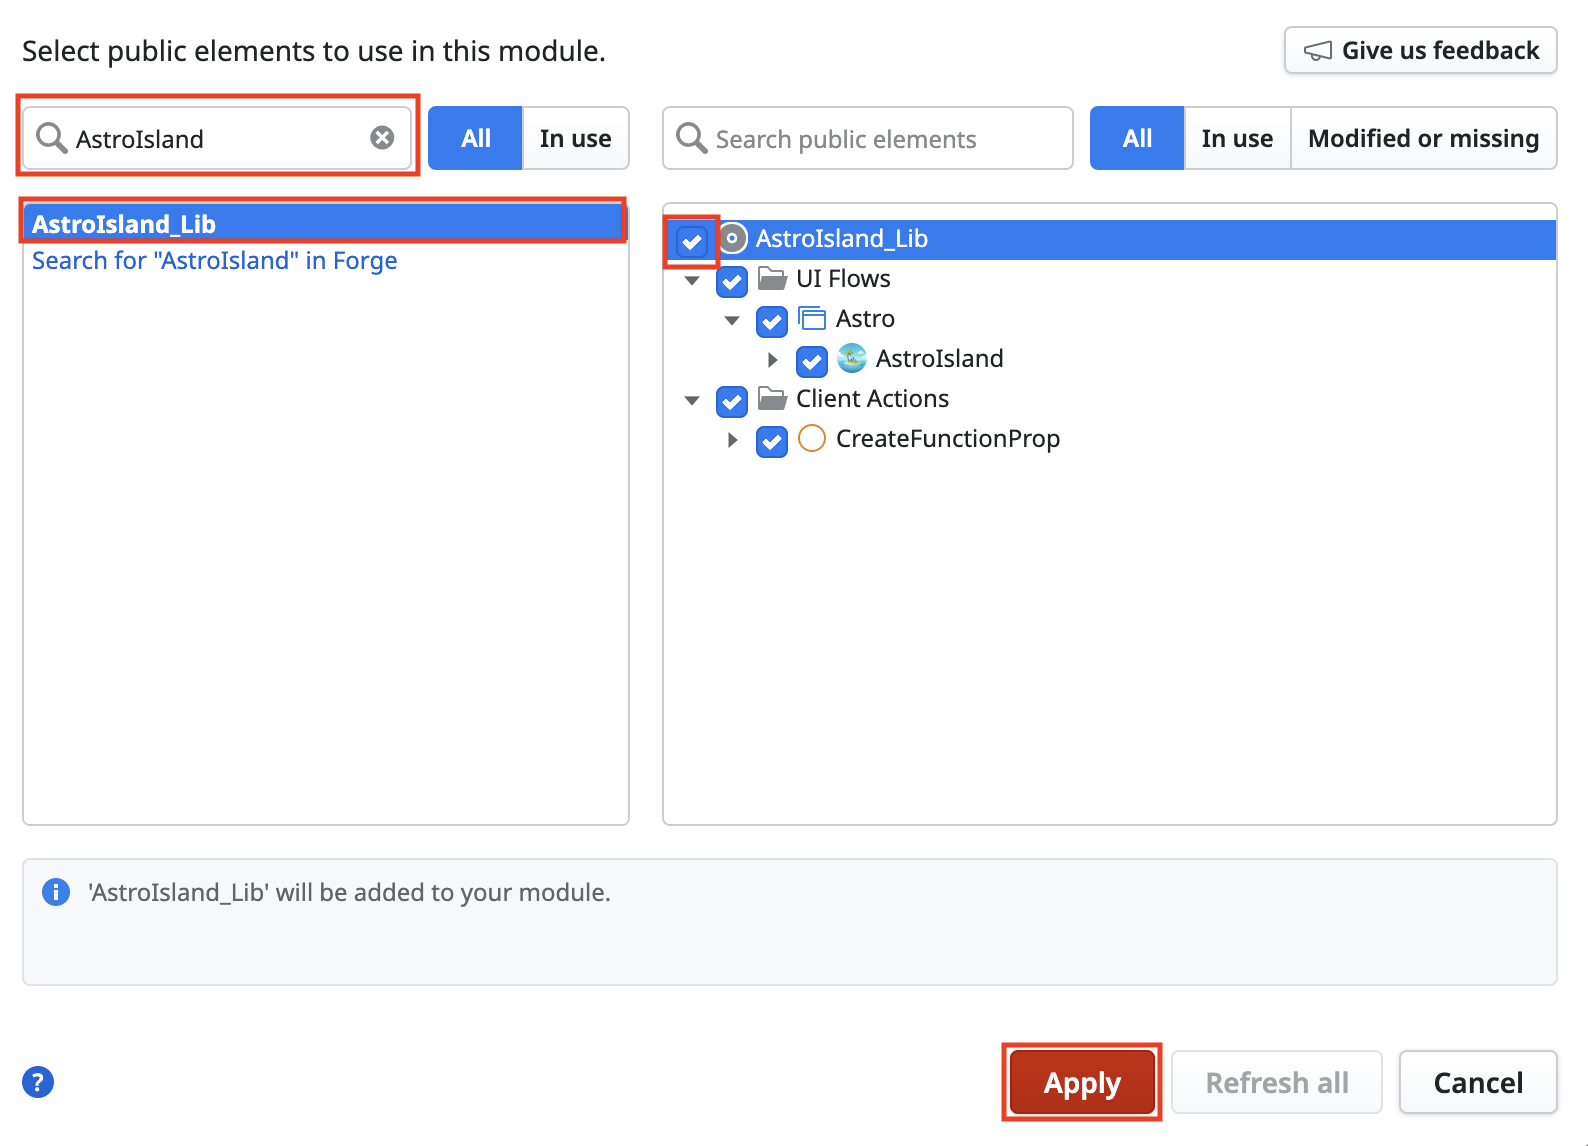
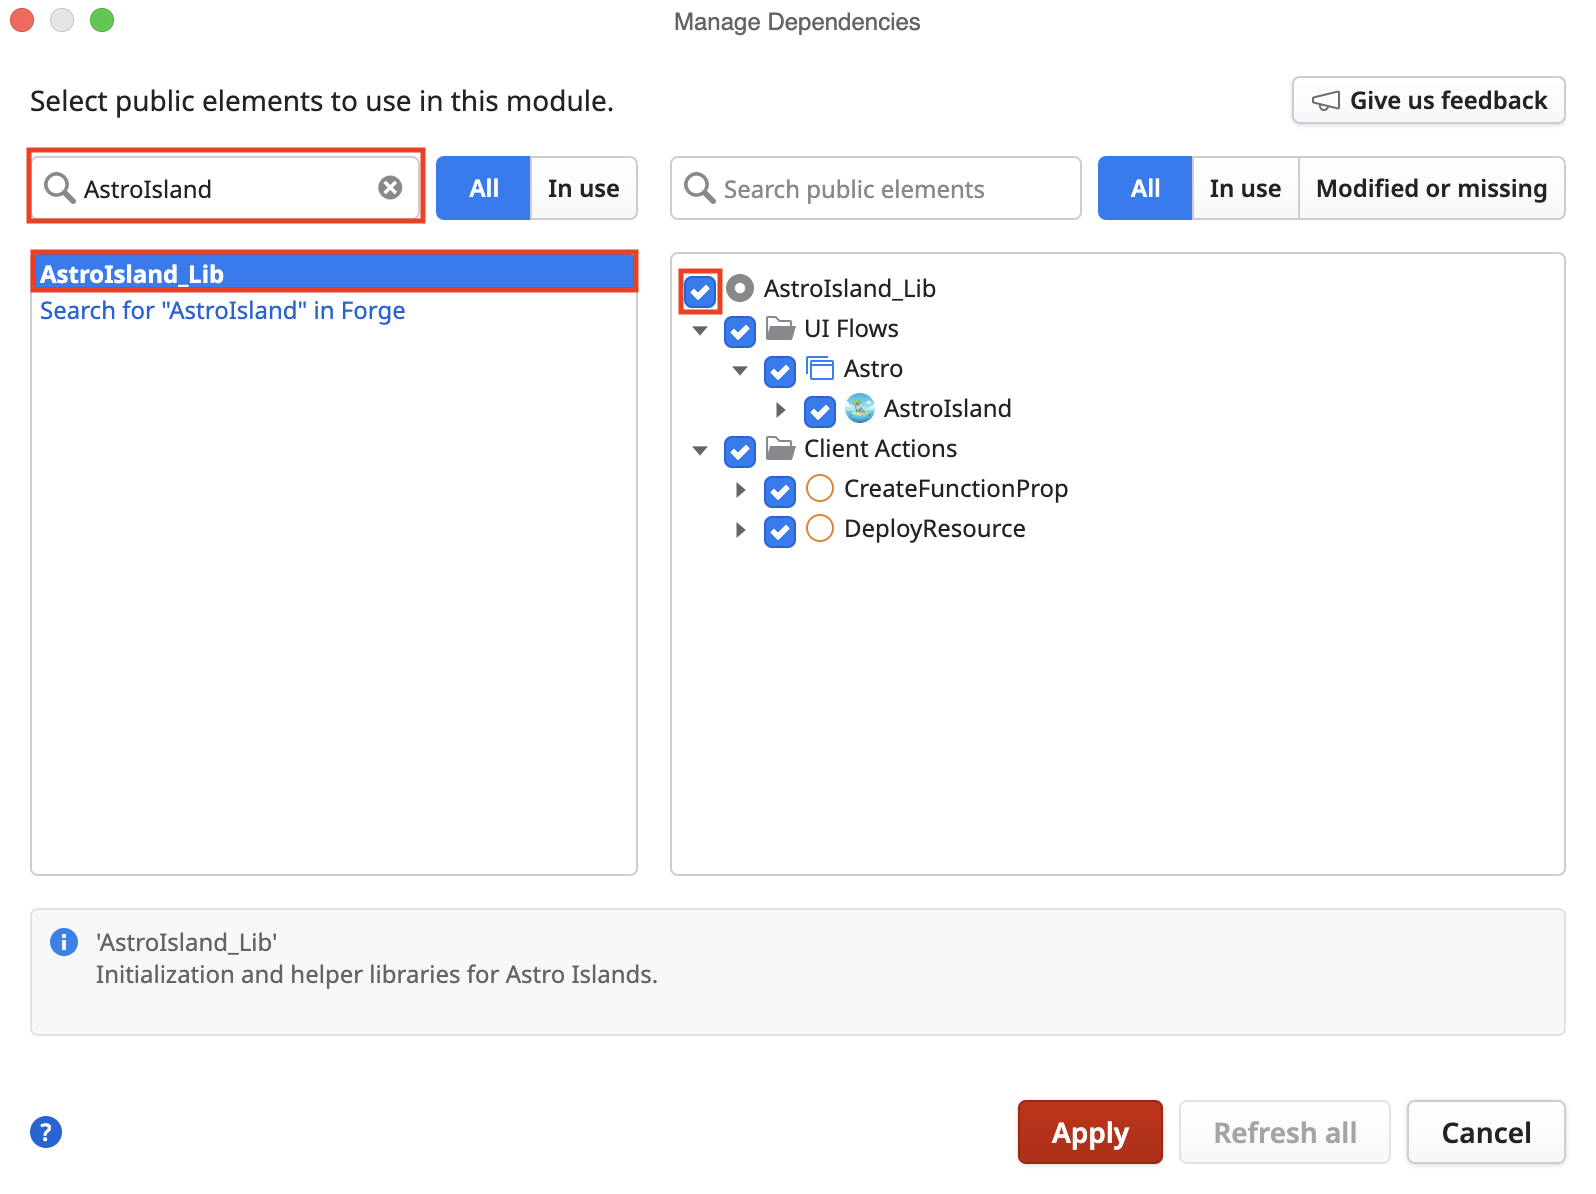
Update docs 011 js file loading (#37)
* Changing manual chunks output to remove .js in filename

* Updating docs for O11 resource deployment

* Adding scheduled run for tests

diff --git a/docs/src/content/docs/guides/outsystems/o11.md b/docs/src/content/docs/guides/outsystems/o11.md
@@ -183,6 +183,22 @@ Astro Islands can take input parameters and functions, but they must first seria
 - Set the Public property to **Yes** and the Deploy Action to **Deploy to Target Directory**.
   ![Set the JavaScript property and Deploy Action](../../../../assets/o11/js-resource-properties.png)
 
+#### Deploy JavaScript files to target.
+
+For any JavaScript files that are not either the ```renderer-url``` or ```component-url```, you must use the deploy resource functionality from `AstroIsland_Lib`. Note: this is not required in ODC.
+
+- In the Interface Elements tab, select the OnInitialize function.
+![Select OnInitialize](../../../../assets/o11/on-initialize-deploy-resource.png)
+
+- Select the Logic tab and drag the ```Deploy Resource``` to the counter. You will need to do this for every single JavaScript file that is imported outside of the ```renderer-url``` and ```component-url```.
+![Select Deploy Resource and drag onto screen](../../../../assets/o11/on-initialize-deploy-resource.png)
+
+- Click the Deploy Resource action on the screen and select the ```Resource``` dropdown.  The select ```Expression Editor```.
+![Select Resource and Expression Editor](../../../../assets/o11/deploy-resource-expression-editor.png)
+
+- Scroll down in the bottom left section that has the variables until you get to the **Resources**. Click on the arrow to drop down the resources list. Find the JavaScript resource that you need to add  and click on the arrow to drop down more options. The URL variable should be displayed. Double click on the URL and it should populate the window. Once the resource variable is populated, click the **Close** button.
+  ![Select Resource URL value](../../../../assets/o11/deploy-resource-select-url.png)
+
 ### Importing Images
 
 - Follow the same process as the JavaScript. You will get a prompt asking if want to add the resource as an Image or a Resource. Select **Add as Resource**.

diff --git a/CHANGELOG.md b/CHANGELOG.md
@@ -5,6 +5,11 @@ All notable changes to this project will be documented in this file.
 The format is based on [Keep a Changelog](https://keepachangelog.com/en/1.1.0/),
 and this project adheres to [Semantic Versioning](https://semver.org/spec/v2.0.0.html).
 
+## [Unreleased]
+
+### Changed
+- Changing manual chunks output to remove .js in filename.
+
 ## [0.4.1] - 2026-01-16
 
 ### Changed
